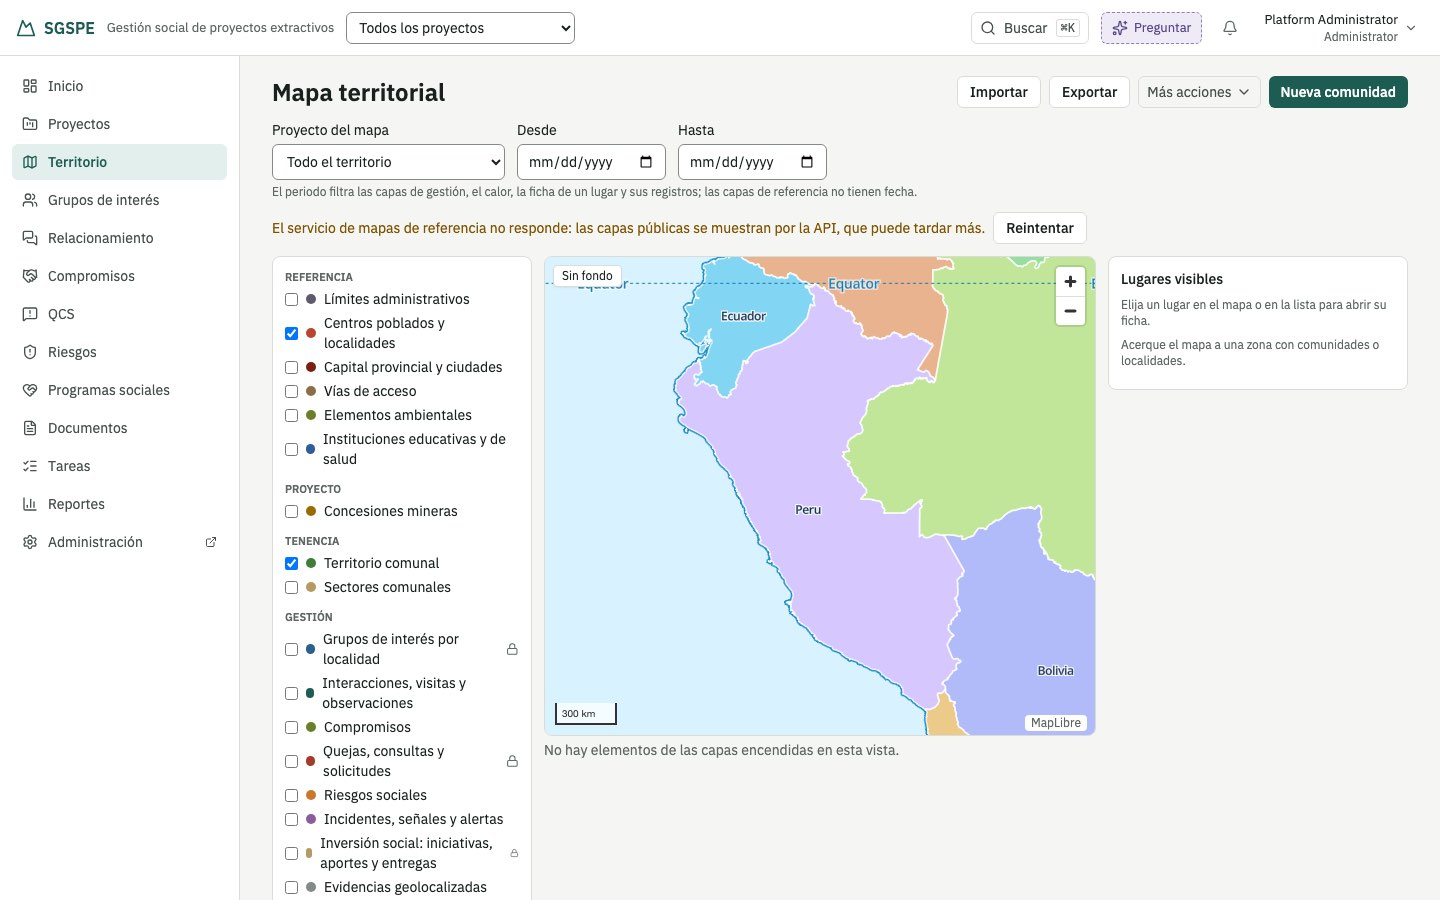
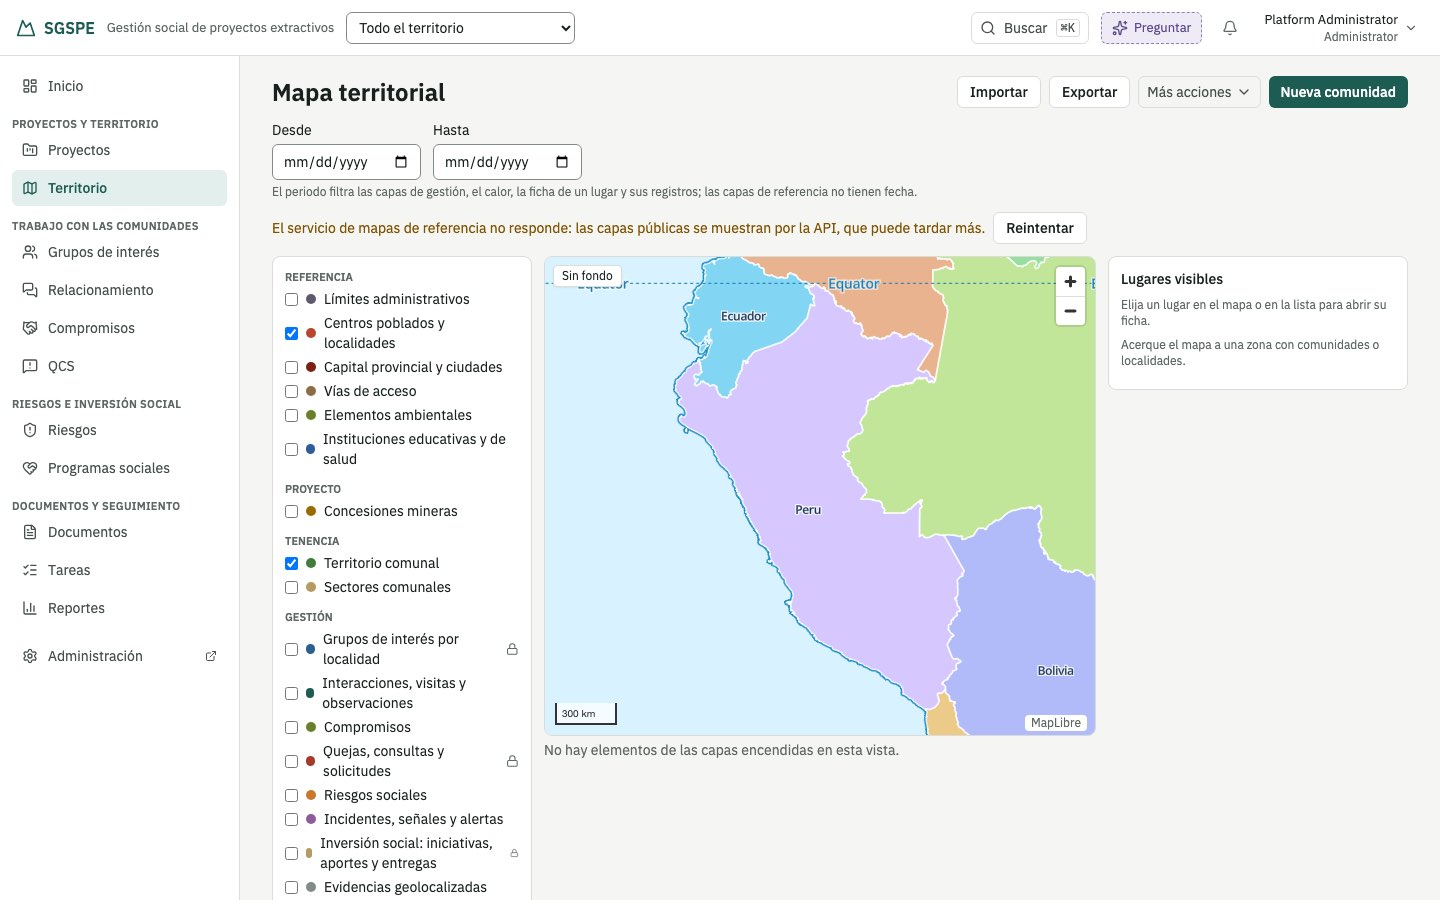
docs: el rediseño de UX suma la navegación en bloques, el lente de Territorio y la medición

diff --git a/docs/rediseno-ux/README.md b/docs/rediseno-ux/README.md
@@ -69,24 +69,24 @@ personas.
 | A20 | Lista de QCS a 1440 px | Diez columnas en lo global: «Responsable» queda cortada y la tabla se desplaza | `antes/qcs-escritorio.jpg` | Lo que importa al final de la fila no se ve sin desplazar | Media | Ocho columnas: el tipo como línea gris sobre el código y el canal bajo la categoría | Ninguno: los mismos datos | `AtencionPage.test.tsx` |
 | A21 | Riesgos, Avisos y la bandeja de IA con filtros | El vacío por filtros no ofrecía quitarlos («No hay riesgos en esta vista», «Ninguna propuesta coincide con los filtros») | Compromisos y QCS ya usaban `VacioDeLista` | Se cree que no hay registros cuando es el filtro | Baja | `VacioDeLista`: «Nada coincide con los filtros», cuántas hay sin ellos donde se sabe y «Limpiar filtros» | Ninguno | `RiesgosPage.test.tsx`, `avisos.test.tsx`, `BandejaDeIaPage.test.tsx` |
 | A22 | Camino del flujo | Un estado del camino de la ficha que el workflow desplegado no define sale con su nombre técnico (`pending_approval`) | `antes/simulada-compromiso-ficha-escritorio.jpg` | Ruido técnico ante la persona | Baja | Del camino dado solo se dibujan los estados que el workflow tiene | Ninguno | `CaminoDelFlujo.test.tsx` |
+| A23 | Navegación principal | 13 secciones en una lista plana | `antes/inicio-escritorio.jpg` | Hay que leer las trece para ubicar la que se busca | Media | Bloques contiguos con título, sin cambiar el orden de RNF-USA-001; contraída, una línea entre bloques | Ninguno: mismas secciones, mismo orden, mismas guardas | `Navigation.test.tsx` |
+| A24 | Territorio | Dos selectores de proyecto: el de la barra («Todos los proyectos») y el propio «Proyecto del mapa», que podían decir cosas distintas | `antes/territorio-escritorio.jpg` | No se sabe cuál manda | Media | En Territorio, el selector de la barra es el lente del mapa (`?project=`, «Todo el territorio»); la pantalla ya no tiene uno propio | Desde Territorio, elegir un proyecto ya no lleva a su pestaña Mapa: se queda en el mapa del tenant con ese lente (se llega al del proyecto por Proyectos) | `contexto.test.tsx`, `TerritorioPage.test.tsx` |
 
 ### 3.2 Observados y no resueltos
 
-| # | Pantalla o flujo | Problema | Evidencia | Gravedad | Por qué no se hizo | Propuesta |
-|---|---|---|---|---|---|---|
-| P4 | Territorio | Su propio «Proyecto del mapa» además del selector de la barra | `despues/territorio-escritorio.jpg` | Media | El mapa necesita «Todo el territorio», que no es «Todos los proyectos»: es una decisión de diseño | Decidir en `docs/ux` si el mapa sigue a la barra y suma «Todo el territorio» |
+Todos los observados (P1 a P6) se resolvieron en esta misma pasada: A18 a A22 y A24. Lo que queda abierto son hipótesis
+(§3.3) y la decisión de §8.
 
 ### 3.3 Hipótesis que necesitan personas
 
-- **H1. Navegación por grupos de tareas.** 13 secciones planas pueden ser muchas para quien usa el portal de vez en
-  cuando. Agruparlas («Mi trabajo», «Proyectos y territorio», «Relacionamiento y compromisos», «Riesgos», «Inversión»,
-  «Documentos e informes») choca con RNF-USA-001 (el mismo orden para todos) y con `ux-architecture.md` §6.2 y §7.2. No se
-  aplicó: ver §8.
+- **H1. Navegación por grupos de tareas.** Aplicada sin reordenar (A23): los bloques respetan el orden de RNF-USA-001, así
+  que «Tareas» no pudo ir junto a «Inicio» en un «Mi trabajo». Falta ver con personas si los títulos ayudan a encontrar la
+  sección sin ayuda.
 - **H2. «QCS».** La sigla de la barra lateral lleva el nombre completo en `title` y para lectores de pantalla. Falta saber
   si quien no es de la gestión de quejas la entiende.
 - **H3. Lo que pasó a «Más acciones».** Reclasificar, crear un compromiso desde la queja, «Informar riesgo de atraso» y
-  las transiciones de excepción quedan a un clic más. Hay que medir cuánto se usan antes de decidir si alguna vuelve a la
-  vista.
+  las transiciones de excepción quedan a un clic más. `sgspe/model/uso_de_acciones.py` (wasichai/sgspe#145) lo mide con la
+  auditoría de producción de un periodo; con datos reales se decide si alguna vuelve a la vista.
 - **H4. Interacción con 8 pestañas.** Puede ser demasiado; se necesita ver qué pestañas usa el relacionista en campo.
 
 ## 4. Arquitectura de información y navegación
@@ -94,13 +94,16 @@ personas.
 **Se conserva la estructura** de `ux-architecture.md` §6: tres contextos (global, proyecto, territorio), las 13 secciones
 en su orden, Project 360 con nueve pestañas y «Más», y las fichas bajo su proyecto con una sola URL. La revisión anterior
 ya había resuelto la sección marcada dentro de un proyecto, los conteos de las pestañas y el selector en el teléfono. Lo
-que faltaba para responder «¿dónde estoy y cómo vuelvo?» eran casos sueltos: A1, A2 y A17.
+que faltaba para responder «¿dónde estoy y cómo vuelvo?» eran casos sueltos: A1, A2 y A17. Dos cambios sí tocan la
+navegación, sin cambiar rutas ni orden: las secciones van en bloques con título (A23) y, en Territorio, el selector de la
+barra es el lente del mapa (A24).
 
 El contexto se lee así, sin elementos nuevos:
 
 | Contexto | Lo dice | Cómo se vuelve |
 |---|---|---|
 | Global | El selector de la barra superior («Todos los proyectos»), sin migas | La barra lateral |
+| Territorio | El selector de la barra superior: «Todo el territorio» o el proyecto que hace de lente | La barra lateral o el selector |
 | Proyecto | El selector con el proyecto, las migas «Proyectos / código · nombre / pestaña», la pestaña marcada y la barra lateral en la sección del módulo | Las migas o las pestañas |
 | Ficha | Las migas terminan en el registro; antetítulo con tipo y código; pestaña del módulo marcada | La miga de la pestaña (la lista) o el rastro |
 | Pantalla abierta desde una ficha | El rastro (el recorrido) sobre las migas | El rastro |
@@ -188,6 +191,8 @@ Rama `ux/rediseno-orientacion`, un commit por cambio (Conventional Commits), con
 - `feat`: la lista de QCS cabe a 1440 px con ocho columnas (A20).
 - `feat`: un vacío por filtros en Riesgos, Avisos y la bandeja de IA los limpia (A21).
 - `fix`: el camino del flujo no dibuja un estado que el workflow no tiene (A22).
+- `feat`: la navegación agrupa las secciones en bloques con título (A23).
+- `feat`: en Territorio el selector de la barra es el proyecto del mapa (A24).
 
 Archivos principales:
 
@@ -219,11 +224,11 @@ Contratos que no cambiaron:
 
 ## 8. Decisiones pendientes y riesgos
 
-1. **Navegación por grupos (H1).** Cambiar la barra lateral a grupos exige revisar RNF-USA-001 y `ux-architecture.md` §6.2
-   y §7.2 en `sgspe`. Antes conviene un recorrido con dos o tres personas nuevas: ¿encuentran la sección sin ayuda con la
-   barra actual (y la búsqueda ahora más útil)?
-2. **El mapa y la barra (P4).** Decidir si Territorio sigue al selector de la barra.
-3. **Lo que vuelve de «Más acciones» (H3).** Medir el uso de reclasificar y de crear un compromiso desde la queja.
+1. **Navegación por grupos (H1).** Implementada respetando RNF-USA-001 (A23) y registrada en `ux-architecture.md` §7.1 con
+   wasichai/sgspe#142. Falta un recorrido con dos o tres personas nuevas: ¿encuentran la sección sin ayuda?
+2. **El mapa y la barra (P4).** Implementado (A24) y registrado en `ux-architecture.md` §6.1 con wasichai/sgspe#142.
+3. **Lo que vuelve de «Más acciones» (H3).** Correr `uso_de_acciones.py` (wasichai/sgspe#145) sobre un trimestre de
+   producción y mover a la vista lo que se use tanto como la primaria.
 4. **El diseño canónico.** La regla «una primaria + Más acciones», la razón de un bloqueo a la vista y los estados de §6.5
    (ruta inexistente, 404 de un módulo, error de carga) se proponen en `design-system.md` con wasichai/sgspe#142. A14 cambió
    antes que el diseño: §6.5 pedía decir «que los filtros se conservan» en todo error de carga. Si la revisión de #142
@@ -232,7 +237,7 @@ Contratos que no cambiaron:
 ## 9. Pruebas ejecutadas
 
 - `yarn format`, `yarn lint` y `yarn typecheck`: sin cambios ni errores.
-- `yarn test`: 2173 pruebas en 188 archivos (antes de esta pasada: 2143 en 186). Con la máquina muy cargada (carga
+- `yarn test`: 2177 pruebas en 188 archivos (antes de esta pasada: 2143 en 186). Con la máquina muy cargada (carga
   promedio 37), dos corridas completas tuvieron cada una un tiempo agotado distinto, en pruebas pesadas que esta pasada no
   cambió: `RiesgosPage` «sin tope» (más de 1000 registros) y `FichaAportePage` «tope de lectura». Aisladas pasan siempre.
 - `yarn build` y las e2e de Playwright contra la build en otro puerto: 62 recorridos en verde, incluidos los 2 nuevos de
